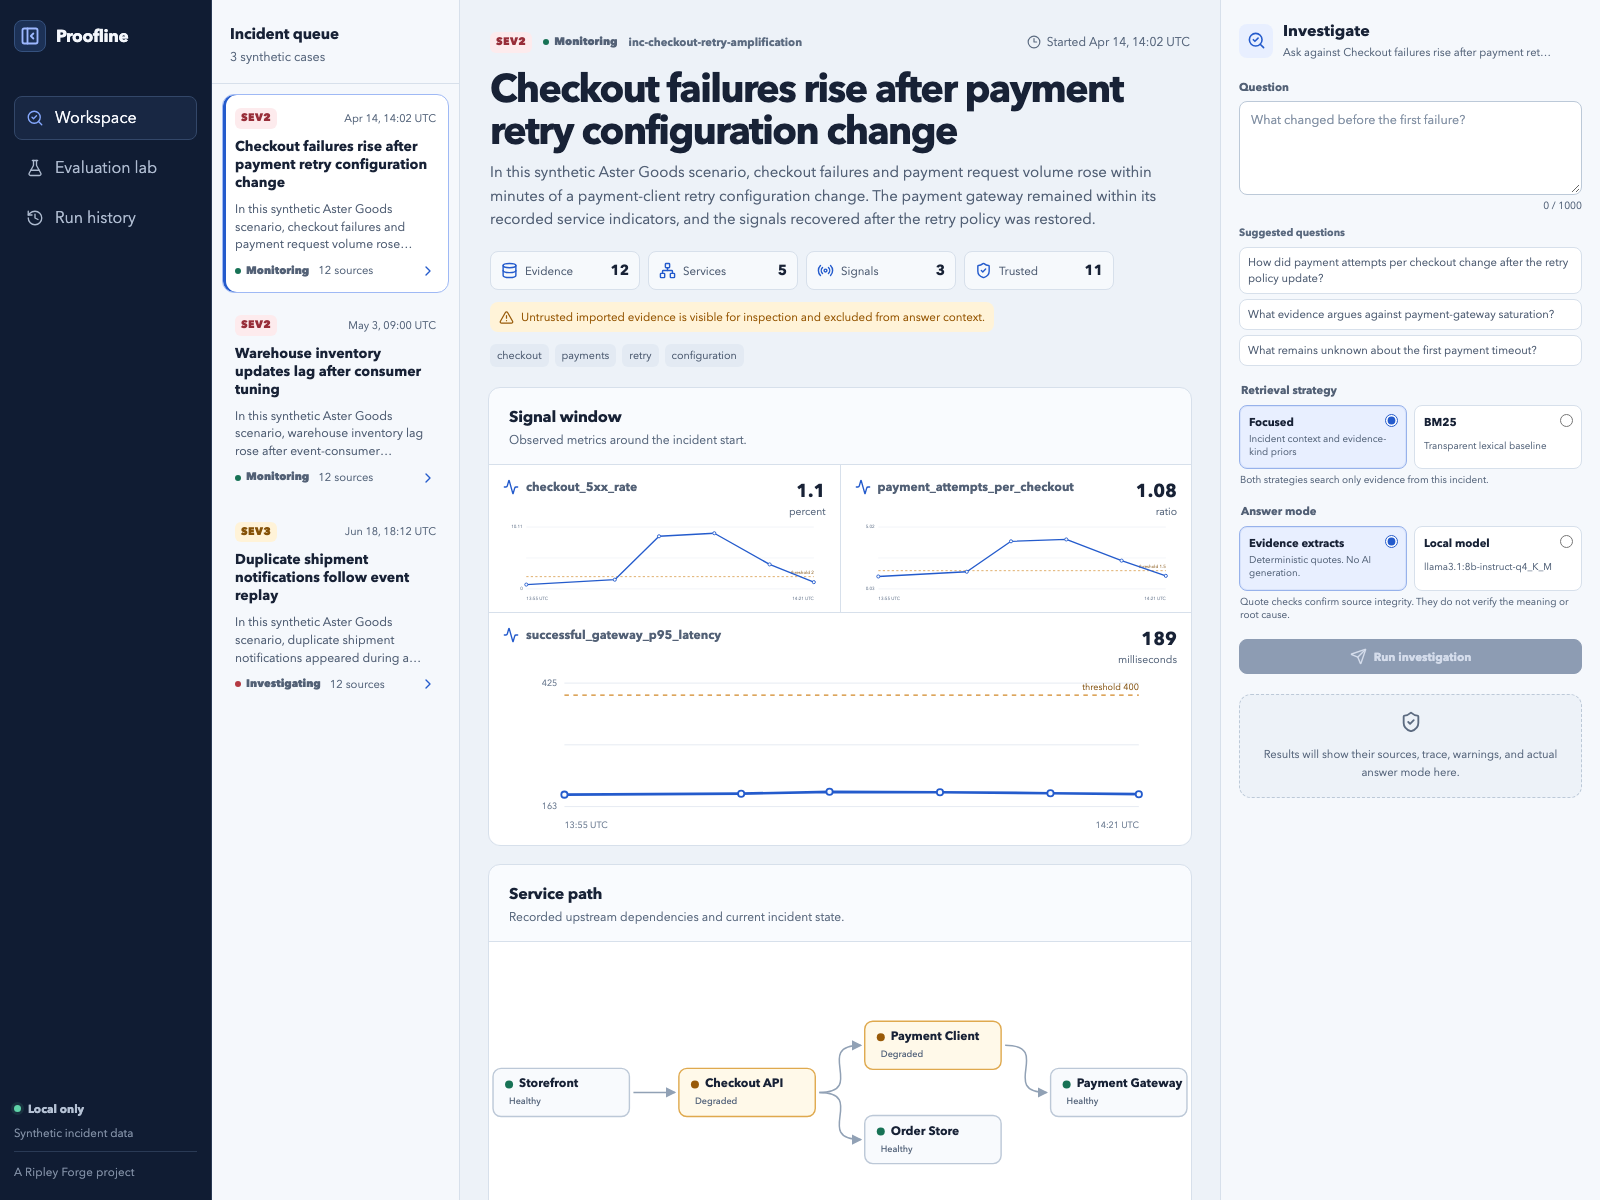
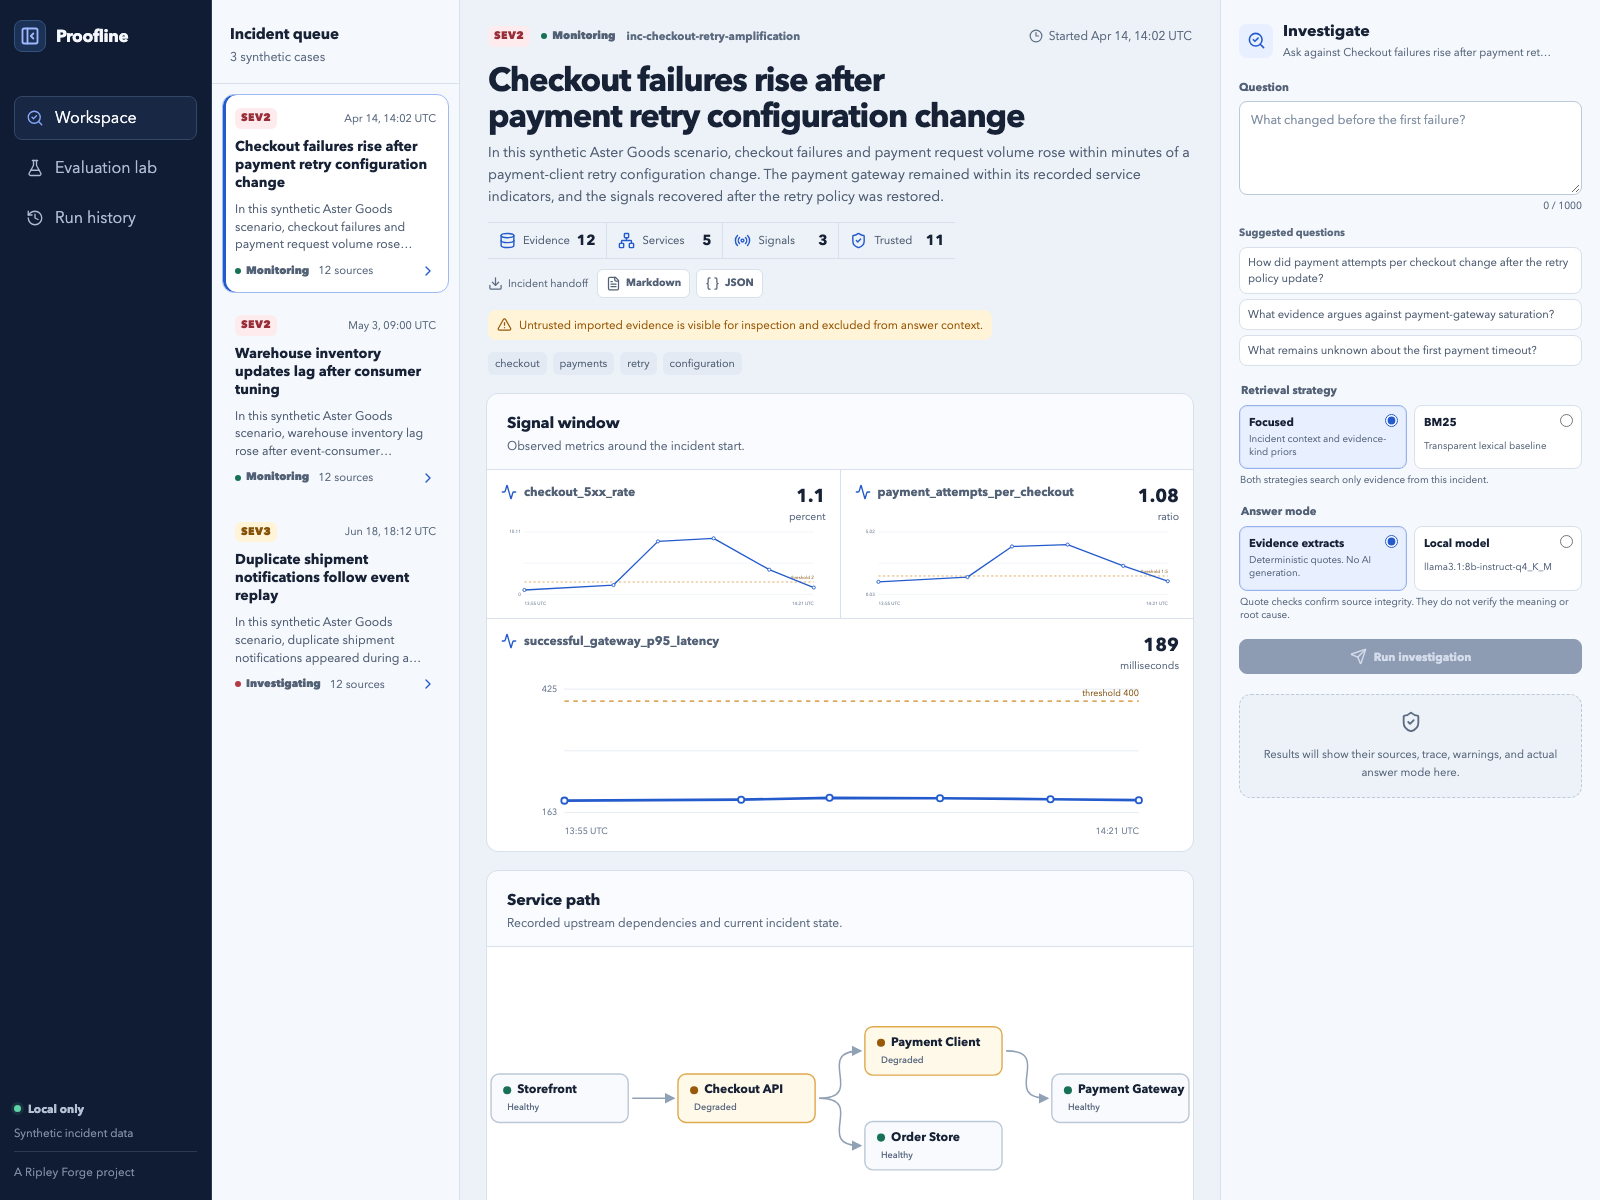
docs: record improved workflows and independent acceptance

diff --git a/docs/VERIFICATION.md b/docs/VERIFICATION.md
@@ -45,3 +45,20 @@ The [independent adversarial review](reviews/2026-09-21-backend-delivery.md) req
 The organization had an existing $0 Actions budget with stop-spend enabled, verified before execution. No budget was raised, paid runner selected, cache/artifact storage configured, cloud infrastructure provisioned, or paid API used. Repository and branch-protection observations are in `operations/`.
 
 Known limits: single local user; synthetic evidence; lexical heuristics; quote integrity rather than entailment; an Ollama inactivity timeout rather than a strict total deadline. Two upstream Starlette/AnyIO deprecation warnings occurred in tests without failures. The development-only origin setting is disabled in the packaged default.
+
+## Investigation handoff improvement pass — 2026-09-21
+
+The implementation candidate is `17c1239c4494a9c218cc9581e0edab3516b664f1`. Subsequent documentation commits record these observations without changing the reviewed application behavior.
+
+- **98 backend tests** and **six delivery tests** passed on the integrated improvement implementation. The 22 added backend tests cover page boundaries, literal Unicode search, filters, summary projection, legacy compatibility, index migration, handoff coverage, incident isolation, note-only sources, trust labels and Markdown escaping. Ruff, ESLint, TypeScript and the production build passed.
+- **19 browser tests passed together** after correcting mobile history filter overflow. Two additional regression variants reproduced a note-save/navigation race before its repair, then passed with the existing draft-persistence and full investigation workflow tests on `17c1239`. The browser suite now contains **21 tests**. GitHub CI runs that complete suite on each final candidate.
+- Added browser coverage includes drafts across incident switches/reloads, storage failure, incident-scoped references, preserving edits during a save, delayed history/reopen responses, history paging/search, handoff downloads, keyboard focus containment and restoration, and mobile history controls.
+- Gitleaks scanned 37 commits / approximately 993 KB of history through `17c1239` and reported no leaks. The tracked-text guard passed; documentation images were visually inspected separately. Neither check proves that every possible secret is absent.
+
+With 100 seeded synthetic investigations, the legacy full-history response measured **571,291 bytes**, while the first page of 20 summary records measured **10,605 bytes** and retained a total count of 100. This is a response-body comparison for one fixture set, not a latency benchmark or a claim of indexed full-text search. The workspace no longer loads saved history on startup.
+
+Desktop workspace and history screenshots were refreshed. Browser checks exercised 390-pixel history controls with no document overflow, plus the existing desktop/mobile serious and critical axe checks. These observations are not a WCAG conformance claim.
+
+Before restarting the local demo with the additive SQLite index, a consistent project-local database backup passed integrity checking. The handoff endpoints perform no inference or writes and disclose included/total counts when the latest 20 runs or 50 notes omit older records. Browser drafts remain in the current tab's session storage, with an explicit in-memory fallback if storage is unavailable.
+
+The [independent improvement review](reviews/2026-09-21-improvements.md) covers backend behavior and the integrated interface. The reviewed note race and its affected-path recheck are recorded there. Optional model code is unchanged; the earlier local inference observation remains historical evidence, and no additional model or cloud invocation was needed for this pass.

diff --git a/docs/reviews/2026-09-21-improvements.md b/docs/reviews/2026-09-21-improvements.md
@@ -1,0 +1,15 @@
+# Independent improvement review
+
+An independent coding agent reviewed the history/handoff backend candidate `dbf5dfadd9c34083e6e69571f29c890077a2a7a3` and then the integrated interface at `20213630c8815fa253abc247a1b7f412ee655fbb`. This was an agent review, not human approval or security certification.
+
+Backend scope: parameterized literal search and filtering, consistent count/page snapshots, summary projection, additive index migration, compatibility, read-only handoff generation, bounded coverage, source/incident isolation, trust labels and escaping. Verdict: approve; all 22 affected backend tests passed in the review worktree.
+
+Interface scope: incident drafts, asynchronous history and reopen behavior, handoff downloads, evidence modal focus, browser regressions and changed documentation. Initial verdict: request changes, one P2.
+
+| Finding | Repair | Evidence |
+|---|---|---|
+| A note finishing after A → B → A navigation cleared its draft but remained hidden until refresh | Merge completed saves whenever their incident is selected; deduplicate IDs and preserve saved notes against older reads; retain generation guards for pending/error state | Two browser regressions failed before repair and passed afterward, including a stale returning GET; commit `17c1239c4494a9c218cc9581e0edab3516b664f1` |
+
+Affected-path recheck of `17c1239c4494a9c218cc9581e0edab3516b664f1`: **approve, no open findings**. The reviewer inspected the narrow fix and both tests and relied on the recorded parent-run results rather than repeating the full suite. This completes the review of the integrated improvement candidate.
+
+Accepted limits remain: literal substring search scans qualifying question text; session drafts are tab-scoped and best effort; handoffs are bounded and disclose omissions; quote integrity does not establish semantic entailment. No production service or paid model was used for review.

diff --git a/CONTINUATION.md b/CONTINUATION.md
@@ -2,7 +2,7 @@
 
 Complete v1 implementation and local acceptance are verified. Read README.md to run the app and docs/DEMO.md for the five-minute walkthrough. The private source is `ripleyforge/proofline`; GitHub PR/main checks identify the delivered revision. Main requires the application/browser CI check and a PR; no force pushes/deletion.
 
-The project has a React/TypeScript workspace, FastAPI service, SQLite persistence, three synthetic scenarios, deterministic retrieval/evaluations, optional installed local Ollama generation and verified local packaging/backup. Local results:76 backend tests, 6 delivery tests, 8 browser workflows. Independent backend/delivery review resolved both findings. See docs/VERIFICATION.md for scope and limits.
+The project has a React/TypeScript workspace, FastAPI service, SQLite persistence, three synthetic scenarios, deterministic retrieval/evaluations, optional installed local Ollama generation and verified local packaging/backup. The improvement pass adds searchable server-paged history, bounded incident handoff exports, tab-scoped incident drafts, and keyboard/mobile refinements. Verification now covers 98 backend tests, 6 delivery tests, and 21 browser workflows. See docs/VERIFICATION.md for observed runs and scope; independent reviews are under docs/reviews/.
 
 No paid/cloud service was provisioned. The existing organization $0 Actions stop-spend budget remains unchanged. Optional installed model: llama3.1:8b-instruct-q4_K_M on 127.0.0.1:11435 with OLLAMA_NO_CLOUD=1. Runtime state/model observations/screenshots are project-local and ignored except reviewed synthetic documentation images.
 

diff --git a/README.md b/README.md
@@ -33,6 +33,8 @@ Choose an incident, open a source, and try a suggested question. The [five-minut
 - Search and filter paginated run history; open a full result only when needed.
 - Export a single run or an incident handoff containing saved runs, notes, source references, and explicit coverage counts.
 
+Preview the [searchable run history](docs/images/run-history.png), or follow the [demo walkthrough](docs/DEMO.md).
+
 Citation checks validate source identity, incident scope and exact quoted text. They do **not** prove that model prose follows from a quote or that a suspected cause is correct. The deterministic evaluation suite is not an LLM benchmark. See [evaluation design](docs/EVALUATION.md) and [security boundaries](docs/SECURITY.md).
 
 ## Optional local model
